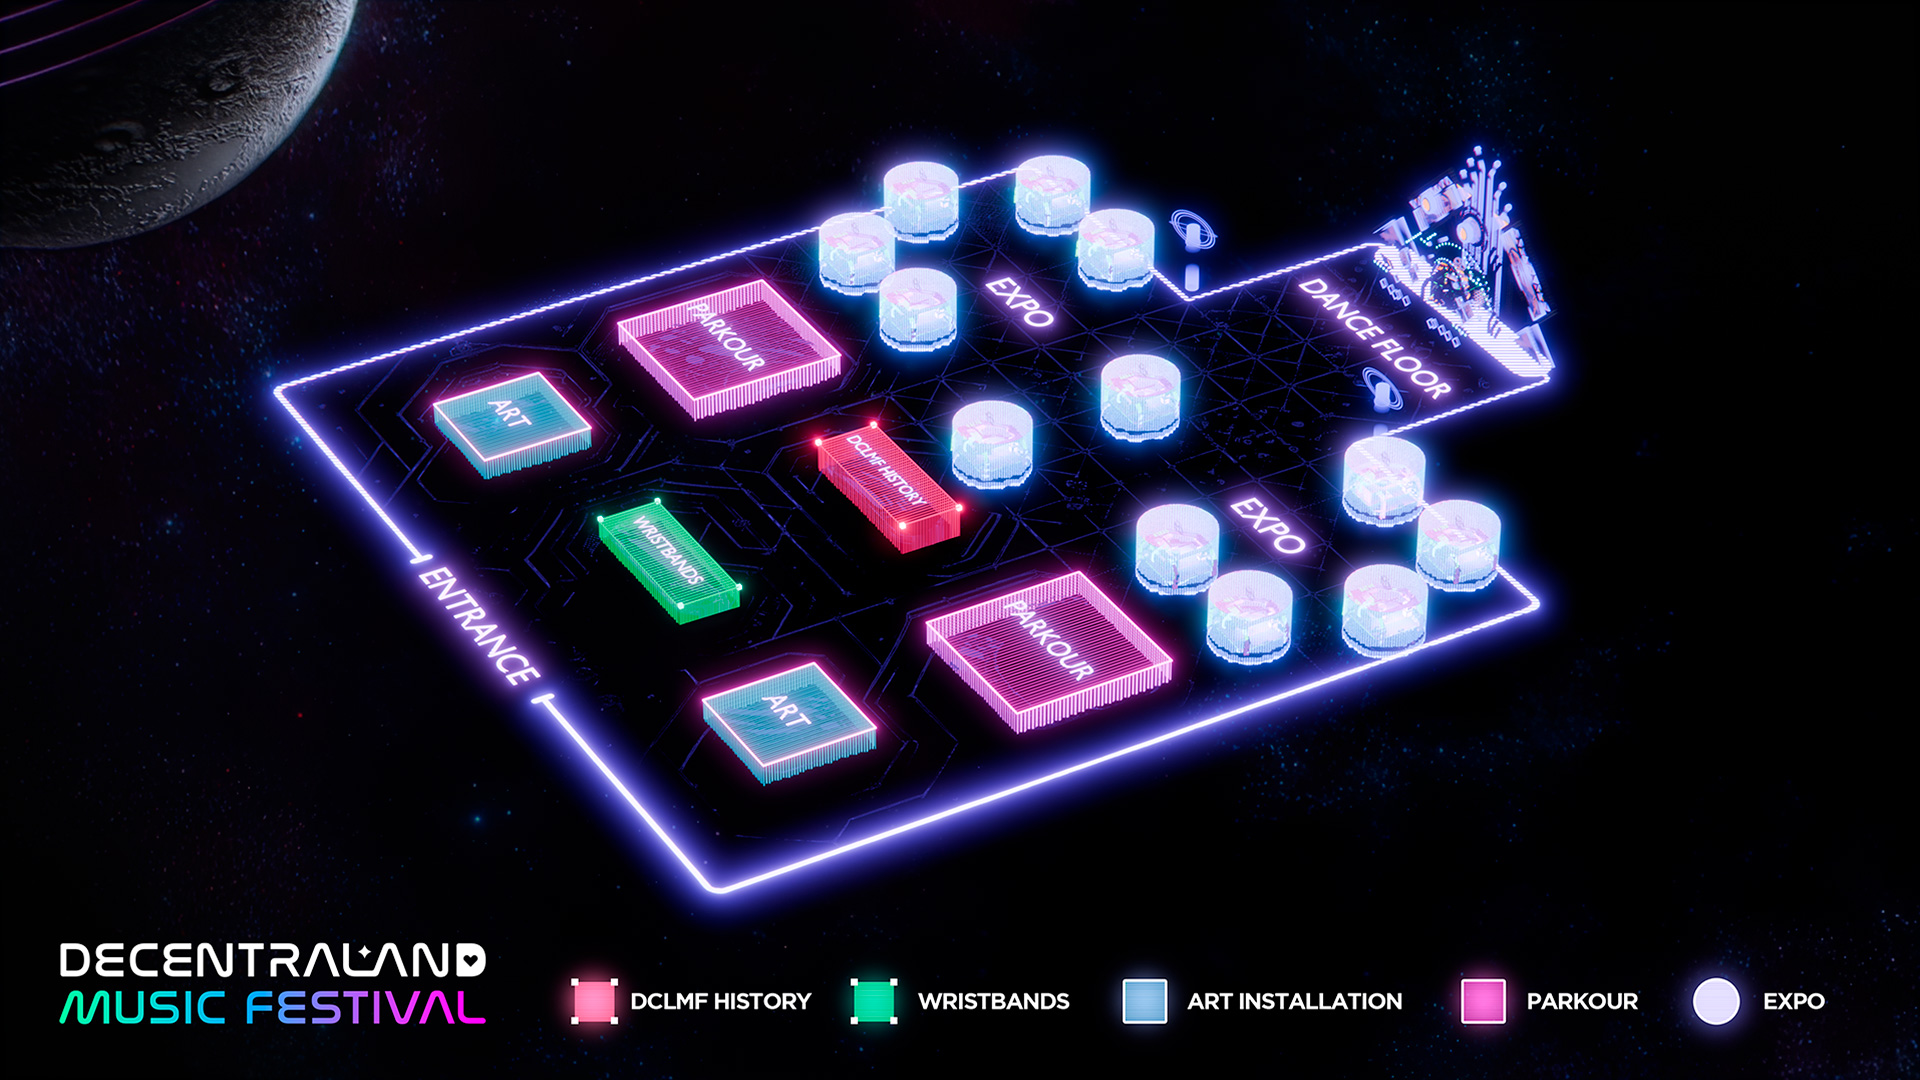
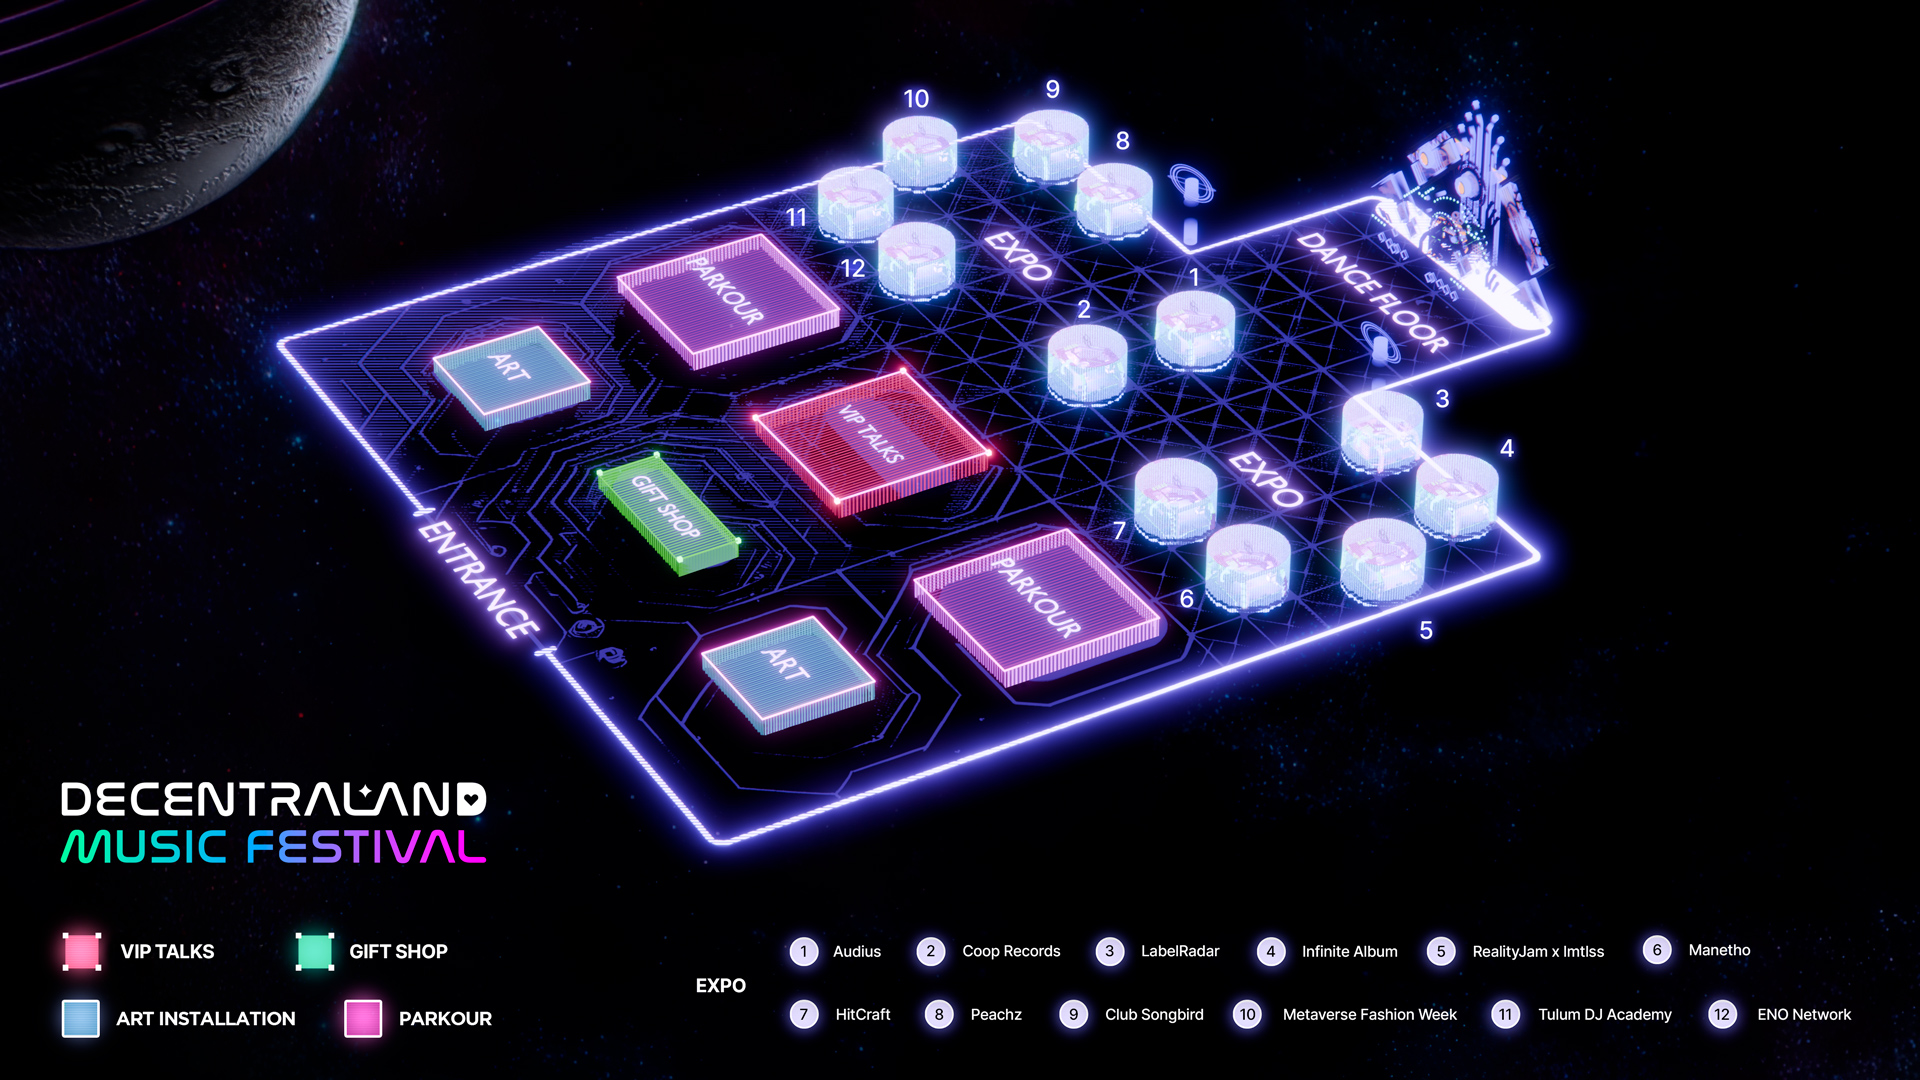
save progress

diff --git a/src/components/LineUp/data.ts b/src/components/LineUp/data.ts
@@ -30,6 +30,9 @@ import MatZo from "../../img/artists/pictures/DayTwo/MatZo.jpeg"
 import SteveSaiko from "../../img/artists/pictures/DayTwo/Steve-Saiko.jpg"
 import Toro from "../../img/artists/pictures/DayTwo/Toro.jpg"
 //LIVE TALKs
+import NghtmareLogoLineup from "../../img/heroLogos/nightmare.png"
+import SanHoloLogoLineup from "../../img/heroLogos/sanholo.png"
+import WhippedCreamLogoLineup from "../../img/heroLogos/whippedcream.png"
 import diaUnoCharlaUno from "../../img/liveTalks/Day1charla1.jpg"
 import diaUnoCharlaDos from "../../img/liveTalks/Day1charla2.jpg"
 import diaDosCharlaUno from "../../img/liveTalks/Day2charla1.jpg"
@@ -37,7 +40,9 @@ import diaDosCharlaDos from "../../img/liveTalks/Day2charla2.jpg"
 import diaTresCharlaUno from "../../img/liveTalks/Day3charla1.jpg"
 import diaTresCharlaDos from "../../img/liveTalks/Day3charla2.jpg"
 import diaCuatroCharlaUno from "../../img/liveTalks/Day4charla1.jpg"
-
+//Artists with logo
+import Blondish from "../../img/music-festival/blondish.png"
+import MatZoLogoLineup from "../../img/music-festival/matzo.png"
 export type Artist = {
   name: string
   time: string
@@ -49,7 +54,7 @@ export type Artist = {
     two: string
     three: string
   }
-
+  logoLineUp?: string
   socials?: {
     twitter?: string
     instagram?: string
@@ -146,6 +151,7 @@ const schedule: Day[] = [
         description:
           "Internationally recognized DJ/producer known for a guitar-infused, indie & future bass sound. Hits like Light and We Rise garner millions of streams; with sets at Ultra & Tomorrowland.",
         image: SanHolo,
+        logoLineUp: SanHoloLogoLineup,
         socials: {
           twitter: "https://x.com/sanholobeats",
           instagram: "https://www.instagram.com/sanholobeats/",
@@ -310,6 +316,7 @@ const schedule: Day[] = [
           two: "NOV. 21",
           three: "22:00 UTC (14:00PST)",
         },
+        logoLineUp: MatZoLogoLineup,
         description:
           "Grammy-nominated DJ/producer, blending genres from trance to drum & bass. Globally known for hits like 'Easy' and 'Colours', he founded the label Mad Zoo and plays festivals worldwide.",
         image: MatZo,
@@ -493,6 +500,7 @@ const schedule: Day[] = [
         description:
           "NGHTMRE is a renowned EDM producer and DJ known for his dynamic blend of trap, bass, and future bass. He headlines major festivals, and hits like 'GUD VIBRATIONS' garner millions of streams worldwide.",
         image: Nghtmare,
+        logoLineUp: NghtmareLogoLineup,
         socials: {
           twitter: "https://x.com/NGHTMRE",
           instagram: "https://www.instagram.com/nghtmre/",
@@ -634,6 +642,7 @@ const schedule: Day[] = [
           two: "NOV. 23",
           three: "21:00 UTC (13:00PST)",
         },
+        logoLineUp: WhippedCreamLogoLineup,
         description:
           "Toronto-born DJ/producer, fusing hip-hop, cinema, and electronica. Known for cinematic soundscapes, bass riffs, and dynamic live sets at Coachella, Lollapalooza and Tomorrowland.",
         image: WhippedCream,
@@ -644,14 +653,14 @@ const schedule: Day[] = [
         },
       },
       {
-        name: "COMING SOON",
-        // name: "BLOND:ISH",
+        name: "BLOND:ISH",
         time: "22:00",
         subtitle: {
           one: "DAY 4",
           two: "NOV. 23",
           three: "22:00 UTC (14:00PST)",
         },
+        logoLineUp: Blondish,
         description: "",
         socials: {
           twitter: "",

diff --git a/src/components/Hero/Hero.tsx b/src/components/Hero/Hero.tsx
@@ -1,3 +1,4 @@
+import { useEffect, useState } from "react"
 import { FiChevronsDown } from "react-icons/fi"
 import { styled } from "styled-components"
 import groupImage2 from "../../img/heroLogos/matzo.png"
@@ -5,6 +6,7 @@ import groupImage4 from "../../img/heroLogos/nightmare.png"
 import groupImage1 from "../../img/heroLogos/sanholo.png"
 import groupImage3 from "../../img/heroLogos/whippedcream.png"
 import bgHero from "../../img/music-festival/bg-hero.jpg"
+import groupImage5 from "../../img/music-festival/blondish.png"
 import separatorImage1 from "../../img/music-festival/cruz-separate-1.png"
 import separatorImage2 from "../../img/music-festival/cruz-separate-2.png"
 import separatorImage3 from "../../img/music-festival/cruz-separate-3.png"
@@ -18,8 +20,20 @@ import { breakpoints } from "../../utils/theme"
 import { DownloadLink } from "../DownloadButton"
 
 const Hero = () => {
+  const [isMobile, setIsMobile] = useState(window.innerWidth <= 768)
+
+  useEffect(() => {
+    window.addEventListener("resize", () => {
+      setIsMobile(window.innerWidth <= 768)
+    })
+  }, [])
+
   return (
     <StyledHero>
+      <BackgroundImage
+        src={isMobile ? bgHeroMobile : bgHero}
+        alt="background"
+      />
       <HeroContainer>
         <DateRow>
           <DiamondImage src={diamondImageLeft} alt="left diamond" />
@@ -54,6 +68,7 @@ const Hero = () => {
           <GroupImages>
             <GroupImage className="nightmare" src={groupImage4} alt="group 4" />
             <GroupImage src={groupImage1} alt="group 1" />
+            <GroupImage src={groupImage5} alt="group 5" />
             <GroupImage src={groupImage2} alt="group 2" />
             <GroupImage src={groupImage3} alt="group 3" />
           </GroupImages>
@@ -197,6 +212,7 @@ const GroupImages = styled.div`
   justify-content: space-between;
   align-items: center;
   gap: 16px;
+  max-width: 650px;
 
   @media (max-width: ${breakpoints.md}) {
     gap: 12px;
@@ -217,15 +233,24 @@ const GroupImage = styled.img`
   max-height: 70px;
   object-fit: contain;
   position: relative;
+  object-position: center;
+  object-fit: contain;
+  width: 1fr;
+  flex: 1;
+  max-width: 120px;
+
+  @media (max-width: ${breakpoints.l}) {
+    max-height: 60px;
+    max-width: 120px;
+  }
 
   @media (max-width: ${breakpoints.md}) {
     height: 60px;
+    max-width: 80px;
   }
 
   @media (max-width: ${breakpoints.s}) {
-    height: 50px;
-    width: 100%;
-    object-fit: contain;
+    max-width: 160px;
   }
 `
 
@@ -237,15 +262,17 @@ const StyledHero = styled.div`
   align-items: center;
   justify-content: center;
   width: 100%;
-  background-image: url(${bgHero});
-  background-size: cover;
-  background-position: center;
-  background-repeat: no-repeat;
   overflow: hidden;
+`
 
-  @media (max-width: ${breakpoints.md}) {
-    background-image: url(${bgHeroMobile});
-  }
+const BackgroundImage = styled.img`
+  width: 100%;
+  height: 100%;
+  position: absolute;
+  top: 0;
+  left: 0;
+  object-fit: cover;
+  z-index: 0;
 `
 
 const HeroContainer = styled.div`

diff --git a/src/components/LineUp/index.tsx b/src/components/LineUp/index.tsx
@@ -1,6 +1,7 @@
 import { useState } from "react"
 import styled from "styled-components"
 import { Artist, schedule } from "./data"
+import { LineUpList } from "./partials/LineUpList"
 import rightDiamond from "../../img/music-festival/right-diamond.png"
 import { Modal } from "../Modal/Index"
 import { Title } from "../Title"
@@ -138,7 +139,15 @@ function LineUp() {
                             color={dayColors[index]}
                             onClick={() => handleArtistClick(artist)}
                           >
-                            <ArtistName>{artist.name}</ArtistName>
+                            {artist.logoLineUp && (
+                              <ArtistLogo
+                                src={artist.logoLineUp}
+                                alt={artist.name}
+                              />
+                            )}
+                            {!artist.logoLineUp && (
+                              <ArtistName>{artist.name}</ArtistName>
+                            )}
                             <ArtistTime color={dayColors[index]}>
                               {artist.time}
                             </ArtistTime>
@@ -159,6 +168,7 @@ function LineUp() {
           </ScheduleContainer>
         </Content>
       </Container>
+      <LineUpList />
       <div>
         {modalOpen && (
           <Modal
@@ -211,6 +221,15 @@ const DaysContainer = styled.div`
     gap: 120px;
     max-width: 1240px;
   }
+`
+
+const ArtistLogo = styled.img`
+  width: 100%;
+  height: 100%;
+  object-fit: contain;
+  max-width: 100px;
+  margin-inline: auto;
+  max-height: 40px;
 `
 
 const Day = styled.div<{
@@ -463,6 +482,7 @@ const ArtistCard = styled.div<{ color: string }>`
     transform 0.2s ease-in-out,
     box-shadow 0.2s ease-in-out;
   will-change: transform, box-shadow;
+  height: 65px;
 
   &:hover {
     transform: scale(1.025);
@@ -476,7 +496,7 @@ const ArtistName = styled.div`
 `
 
 const ArtistTime = styled.div<{ color: string }>`
-  font-size: 0.625rem;
+  font-size: 0.8rem;
   color: ${(props) => props.color};
 `
 

diff --git a/src/components/Exhibitors/data.ts b/src/components/Exhibitors/data.ts
@@ -2,10 +2,14 @@ import AUDIUS from "../../img/exhibitors/Audius.jpeg"
 import CLUB_SONGBIRD from "../../img/exhibitors/Club-Songbird.jpg"
 import COOP_RECORDS from "../../img/exhibitors/Coop-Records.jpg"
 import ENO_NETWORK from "../../img/exhibitors/EnoNetwork.png"
+import HITCRAFT from "../../img/exhibitors/Hitcraft.jpg"
+import INFINITE_ALBUM from "../../img/exhibitors/INFINITE ALBUM.png"
 import LABELRADAR from "../../img/exhibitors/LabelRadar.jpg"
 import MANETHO from "../../img/exhibitors/Manetho.jpg"
+import MVFW from "../../img/exhibitors/mvfwthumb.png"
 import PEACHZ from "../../img/exhibitors/Peachz.xyz.png"
 import REALITY_X_LMTLSS from "../../img/exhibitors/RealityJam-Lmtlss.jpeg"
+import TULUM_DJ_ACADEMY from "../../img/exhibitors/Tulum.jpg"
 
 export const exhibitorsData = [
   {
@@ -47,5 +51,25 @@ export const exhibitorsData = [
     title: "REALITY X LMTLSS",
     location: "",
     image: REALITY_X_LMTLSS,
+  },
+  {
+    title: "TULUM DJ ACADEMY",
+    location: "",
+    image: TULUM_DJ_ACADEMY,
+  },
+  {
+    title: "MVFW",
+    location: "",
+    image: MVFW,
+  },
+  {
+    title: "INFINITE ALBUM",
+    location: "",
+    image: INFINITE_ALBUM,
+  },
+  {
+    title: "HITCRAFT",
+    location: "",
+    image: HITCRAFT,
   },
 ]

diff --git a/src/components/MapComponent/MapComponent.tsx b/src/components/MapComponent/MapComponent.tsx
@@ -1,3 +1,4 @@
+import { useEffect, useState } from "react"
 import { styled } from "styled-components"
 import mapMobile from "../../img/maps/map-mobile.jpg"
 import mapDesktop from "../../img/maps/map-web.jpg"
@@ -5,13 +6,19 @@ import { DownloadLink } from "../DownloadButton"
 import { Title } from "../Title"
 
 const MapComponent = () => {
-  const mediaQuery = window.innerWidth
+  const [isMobile, setIsMobile] = useState(window.innerWidth <= 768)
+
+  useEffect(() => {
+    window.addEventListener("resize", () => {
+      setIsMobile(window.innerWidth <= 768)
+    })
+  }, [])
 
   return (
     <MapContainer id="map">
       <Title>MAP</Title>
       <ContentWrapper>
-        <MapImage src={mediaQuery > 768 ? mapDesktop : mapMobile} alt="Map" />
+        <MapImage src={isMobile ? mapMobile : mapDesktop} alt="Map" />
       </ContentWrapper>
       <DownloadLink />
     </MapContainer>

diff --git a/src/components/LineUp/partials/LineUpList.tsx b/src/components/LineUp/partials/LineUpList.tsx
@@ -1,0 +1,35 @@
+import styled from "styled-components"
+// assets
+import bgLineUp from "../../../img/lineup/bg.png"
+import imgDesktop from "../../../img/lineup/lineup-desktop.png"
+
+const LineUpList = () => {
+  return (
+    <ListContainer>
+      <img src={imgDesktop} alt="lineup" />
+    </ListContainer>
+  )
+}
+
+const ListContainer = styled.div`
+  margin-top: 70px;
+  padding-bottom: 100px;
+  width: 100%;
+  display: flex;
+  flex-direction: column;
+  align-items: center;
+  justify-content: start;
+  background-image: url(${bgLineUp});
+  background-size: cover;
+  background-position: center;
+  min-height: 100vh;
+
+  img {
+    width: 100%;
+    height: 100%;
+    object-fit: contain;
+    max-width: 832px;
+    mix-blend-mode: background;
+  }
+`
+export { LineUpList }
